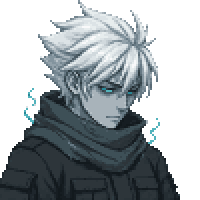
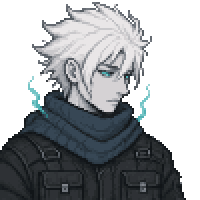
주인공 대화 초상화를 사용자가 고른 시안으로 교체
- 기본 표정: NPC 초상화를 화풍 기준으로 그린 시안(c_s5)
- 결의 표정: 그 그림의 얼굴만 다시 편집

diff --git a/tools/apply_pixellab_portraits.py b/tools/apply_pixellab_portraits.py
@@ -25,7 +25,7 @@ RAW = os.path.join(ROOT, 'assets', 'sprites', 'pixellab', 'portraits_v6', 'raw_g
 DST = os.path.join(ROOT, 'assets', 'portraits')
 SCALE = 2
 # 얼굴 영역 (x0, y0, x1, y1), 100x100 기준: 눈썹·눈·입이 들어가는 사각형. 머리카락·옷은 건드리지 않는다
-FACE = {'n09': (36, 30, 78, 72), 'mechanic': (17, 24, 50, 60), 'keeper': (14, 20, 48, 66), 'archivist': (20, 24, 54, 64)}
+FACE = {'n09': (44, 28, 74, 62), 'mechanic': (17, 24, 50, 60), 'keeper': (14, 20, 48, 66), 'archivist': (20, 24, 54, 64)}
 
 
 def load(name):

diff --git a/docs/DECISIONS.md b/docs/DECISIONS.md
@@ -707,4 +707,4 @@
 - 2026-11-26 **실행 중 사각형으로 그리던 이펙트를 구운 시트로 바꾸는 방식 (haze-fx)**: ① 모양이 정해진 것(탄환·파동·낙뢰·결정 조각)은 반복 시트나 한 번 재생 시트. ② 길이가 실행 중에 정해지는 것(드론 불꽃, 심장 손 광선, 오염 장판)은 **이어 붙이는 타일 시트**: 시간·위치의 주기 함수로만 그려 위아래(좌우)와 처음·끝이 맞물리고, 게임은 `effects.draw_beam`·`draw_strip`으로 필요한 만큼 이어 그린다(마지막 칸은 잘라서). ③ 방향이 실행 중에 정해지는 점선·고리(감시 눈 조준선·레이저, 폭발 예고 고리, 소용돌이, 손에 맺히는 빛)는 구운 둥근 점 `effects.draw_dot`(색은 게임이 입힌다, 빛 층 포함). ④ 바닥 예고 띠는 `effects.draw_warn`(끝이 가늘어지는 2px 칸 띠 + 빛). 판정·시간·색 뜻은 그대로다(그림만 바꿈). 새 이펙트를 `draw_rect_color` 덩어리로 그리지 않는다. 남겨 둔 것: 대시 궤적(사용자가 좋아한 그림), 돌진 궤적·탄환 줄기·사슬(방향이 실행 중에 정해지는 선), 표식·조준 꺾쇠(아이콘).
 - 2026-11-26 **주인공 쪽 사각형 이펙트 정리**: 쌍권총 탄환·총구 섬광은 조준 방향이 실행 중에 정해지므로 **32방향을 미리 구운 시트**(`DIR_SHEETS`, 한 줄 = 한 방향, `effects.dir_variant`로 가장 가까운 줄을 고른다. 실행 중 회전 없음, 방향 오차 최대 약 5.6도). 건틀릿 돌진 궤적과 도탄 사슬 잔상은 사용자가 마음에 들어 한 **대시 궤적 그림(DashStreak)** 을 그대로 쓴다(굵기·색만 다르게): 새 그림을 만들지 않고 통과한 화풍을 넓힌다. 섬광 베기의 예고 줄은 둥근 점. 탄환의 판정·속도·사거리는 그대로다. 그대로 둔 것: 사슬(쇠고리 그림), 탄피, 표식 X·조준 꺾쇠(아이콘), 대시 궤적 자체.
 - 2026-11-26 **대화 초상화는 지금 것을 유지 (사용자: "지금 것이 좋네")**: Gemini G04의 NPC 3장·주인공 분노·피격은 검토를 통과했지만 게임에 넣지 않고 `assets/sprites/gemini/portraits_v1/`에 원화로 둔다. 게임의 초상화 8장이 어디서 왔는지: 주인공 기본 표정 `n09_1` = Gemini G04 `hero_portrait.png`를 100px·32색으로 줄여 2배, 주인공 결의 `n09_2` = 그 그림의 얼굴만 PixelLab으로 편집, NPC 6장 = PixelLab으로 새로 생성(화풍 기준이 `n09_1`).
-- 2026-11-26 **주인공 대화 초상화도 PixelLab으로 (사용자: "npc 제작한 것처럼 주인공 제작 다시 하자")**: 바로 위 줄의 "주인공 기본 표정 = Gemini 원화를 줄인 것"은 이 결정으로 바뀌었다. 이제 대화 초상화 8장은 모두 PixelLab 생성물이고, Gemini G04 주인공 초상화는 기준 그림(디자인·화풍)으로만 쓰였다. 시안 7장 중 예전 초상화를 기준으로 다시 그린 것(b_s3)을 Claude Code가 골랐다(예비 b_s11). 같은 인물을 다시 그릴 때는 그 인물의 예전 그림을 기준으로 넣는다: 다른 인물의 그림을 넣으면 살색까지 따라온다.
+- 2026-11-26 **주인공 대화 초상화도 PixelLab으로 (사용자: "npc 제작한 것처럼 주인공 제작 다시 하자")**: 바로 위 줄의 "주인공 기본 표정 = Gemini 원화를 줄인 것"은 이 결정으로 바뀌었다. 이제 대화 초상화 8장은 모두 PixelLab 생성물이고, Gemini G04 주인공 초상화는 기준 그림(디자인·화풍)으로만 쓰였다. 시안 7장 중 예전 초상화를 기준으로 다시 그린 것(b_s3)을 Claude Code가 골랐다(예비 b_s11). 같은 인물을 다시 그릴 때는 그 인물의 예전 그림을 기준으로 넣는다: 다른 인물의 그림을 넣으면 살색까지 따라온다. -> **같은 날 사용자가 시안을 직접 골랐다: c_s5**(NPC 초상화를 화풍 기준으로 그린 것, 흰 피부·또렷한 선·푸른 머플러. "아래 줄 3번째 걸로"). 게임에는 c_s5와 그 결의 표정이 들어가 있다. 사용자는 예전 그림을 닮은 쪽보다 NPC와 같은 그림체인 쪽을 골랐다.

diff --git a/docs/PROGRESS.md b/docs/PROGRESS.md
@@ -395,3 +395,4 @@
 2026-11-26 [Claude Code] Gemini G04 대화 초상화 5장 검토: 합격 기준 통과, 게임 크기(100px·32색·2배)로 줄여 지금 초상화와 비교(shots/review/g04_game_size.png). 추천은 지금 초상화 유지 + G04는 원화로 보관, 적용 여부는 사용자 결정 대기 / docs/gemini/(TASKS.md, tasks/G04_portraits.md), docs/PROGRESS.md, assets/sprites/gemini/portraits_v1/(Gemini 파일 커밋)
 2026-11-26 [Claude Code] G04 적용 여부 결정 기록: 사용자가 지금 초상화 유지를 고름, G04 새 5장은 원화로 보관 / docs/gemini/(TASKS.md, tasks/G04_portraits.md), docs/(DECISIONS, PROGRESS).md
 2026-11-26 [Claude Code] 주인공 대화 초상화 2장을 PixelLab으로 다시 만듦(사용자 요청): 기본 표정 시안 7장 중 b_s3 선택, 결의 표정은 얼굴만 편집, 실제 대화창에서 두 표정 확인. 54회 사용 / assets/portraits/n09_1~2.png, assets/sprites/pixellab/portraits_v6/(hero_gen/, raw_gen/, GENERATION_LOG.md), tools/apply_pixellab_portraits.py, docs/(PROGRESS, DECISIONS, ASSETS, image_prompts).md
+2026-11-26 [Claude Code] 주인공 대화 초상화를 사용자가 고른 시안(c_s5)으로 교체, 결의 표정을 그 그림에서 다시 편집, 실제 대화창 확인. 12회 사용 / assets/portraits/n09_1~2.png, assets/sprites/pixellab/portraits_v6/(hero_gen/, raw_gen/, GENERATION_LOG.md), tools/apply_pixellab_portraits.py, docs/(PROGRESS, DECISIONS).md

diff --git a/assets/sprites/pixellab/portraits_v6/GENERATION_LOG.md b/assets/sprites/pixellab/portraits_v6/GENERATION_LOG.md
@@ -64,3 +64,12 @@ Keep everything else exactly the same ...". seed 7(**선택**)·seed 3. 두 장 
 `hero_gen/hero_b_s3_mood_s7.png` -> `raw_gen/n09_2.png`. 얼굴 사각형은 (36,30)-(78,72)로 바꿈(`tools/apply_pixellab_portraits.py`의 FACE).
 확인: 실제 대화창 `shots/review/hero_portrait_ingame.png`(위 기본, 아래 강화를 샀을 때의 결의 + 정비사의 씩 웃음).
 
+### 사용자 선택으로 바꿈 (2026-11-26, 같은 날)
+시안 비교판을 본 사용자가 **아랫줄 세 번째 = `hero_c_s5`**(정비사 초상화를 화풍 기준으로, 색 따라 하기 끔, seed 5)를 골랐다("아래 줄 3번째 걸로 스타일을 뽑자").
+Claude Code가 골랐던 b_s3(예전 초상화를 다시 그린 것)보다 선이 또렷하고 피부가 희며 머플러가 푸른 쪽이다: NPC 초상화와 같은 그림체.
+- 기본 표정 `raw_gen/n09_1.png` = `hero_gen/hero_c_s5.png` (알파 0/255로만 정리)
+- 결의 표정 (12회: 6회 x 2): 같은 편집 지시, 원본 = hero_c_s5, seed 7(**선택**)·seed 3. 얼굴 밖은 거의 그대로(달라진 칸 86·97).
+  `hero_gen/hero_c_s5_mood_s7.png` -> `raw_gen/n09_2.png`. 얼굴 사각형 (44,28)-(74,62).
+- b_s3와 그 결의 표정(`hero_b_s3*.png`)은 `hero_gen/`에 남겨 둔다.
+확인: `shots/review/hero_portrait_final.png`(두 표정), `hero_portrait_ingame_crop.png`(실제 대화창, 위 기본·아래 결의).
+
